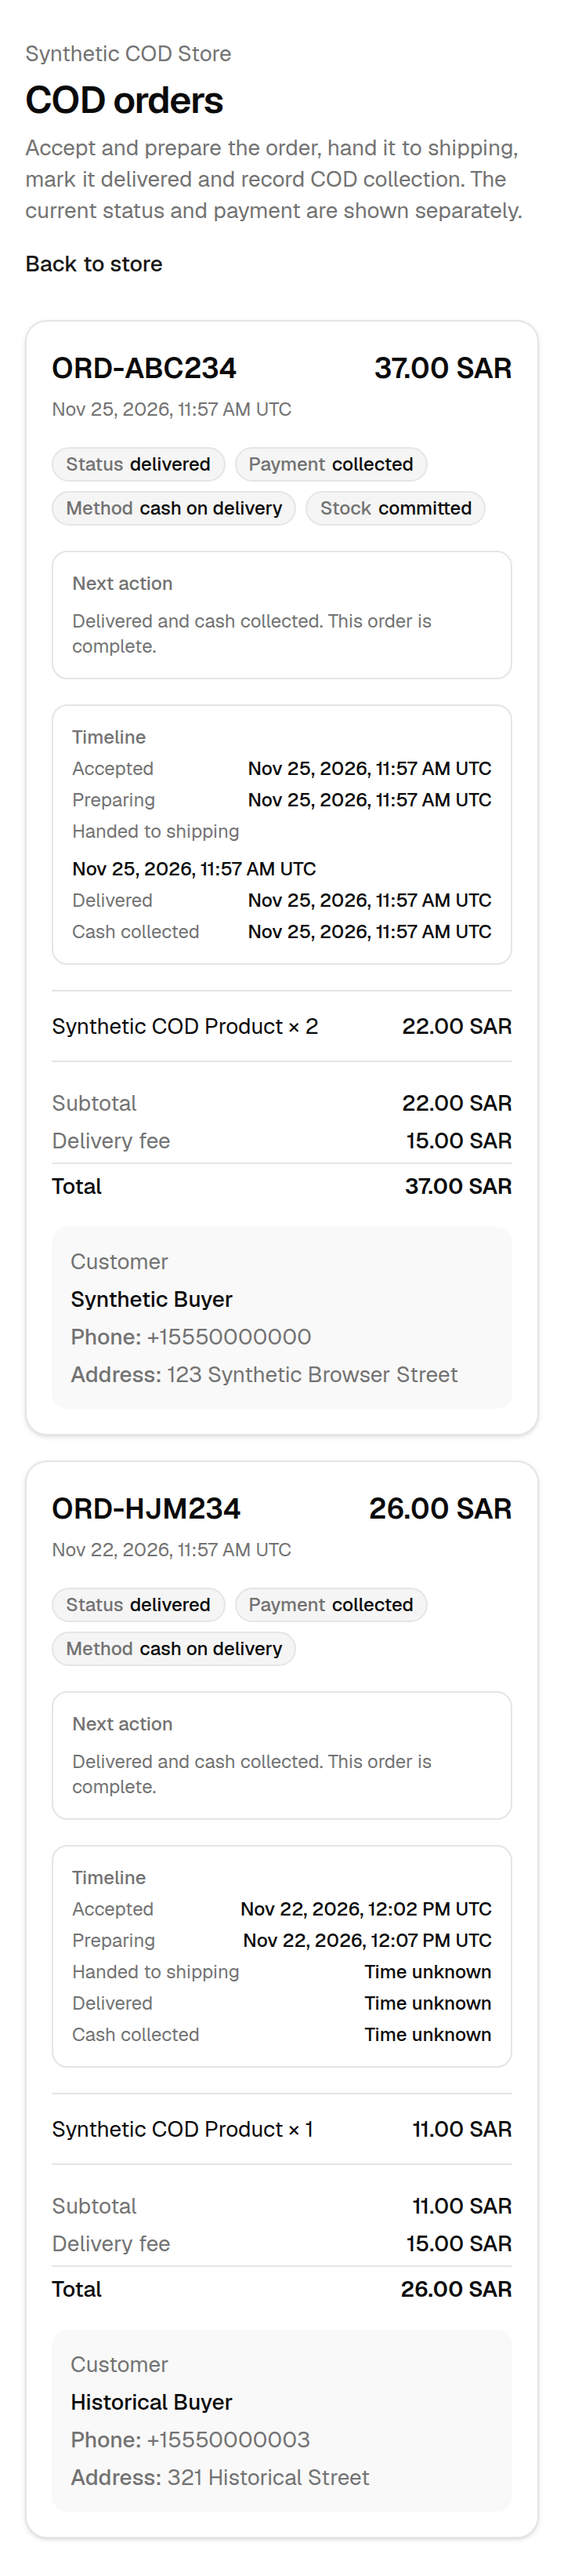
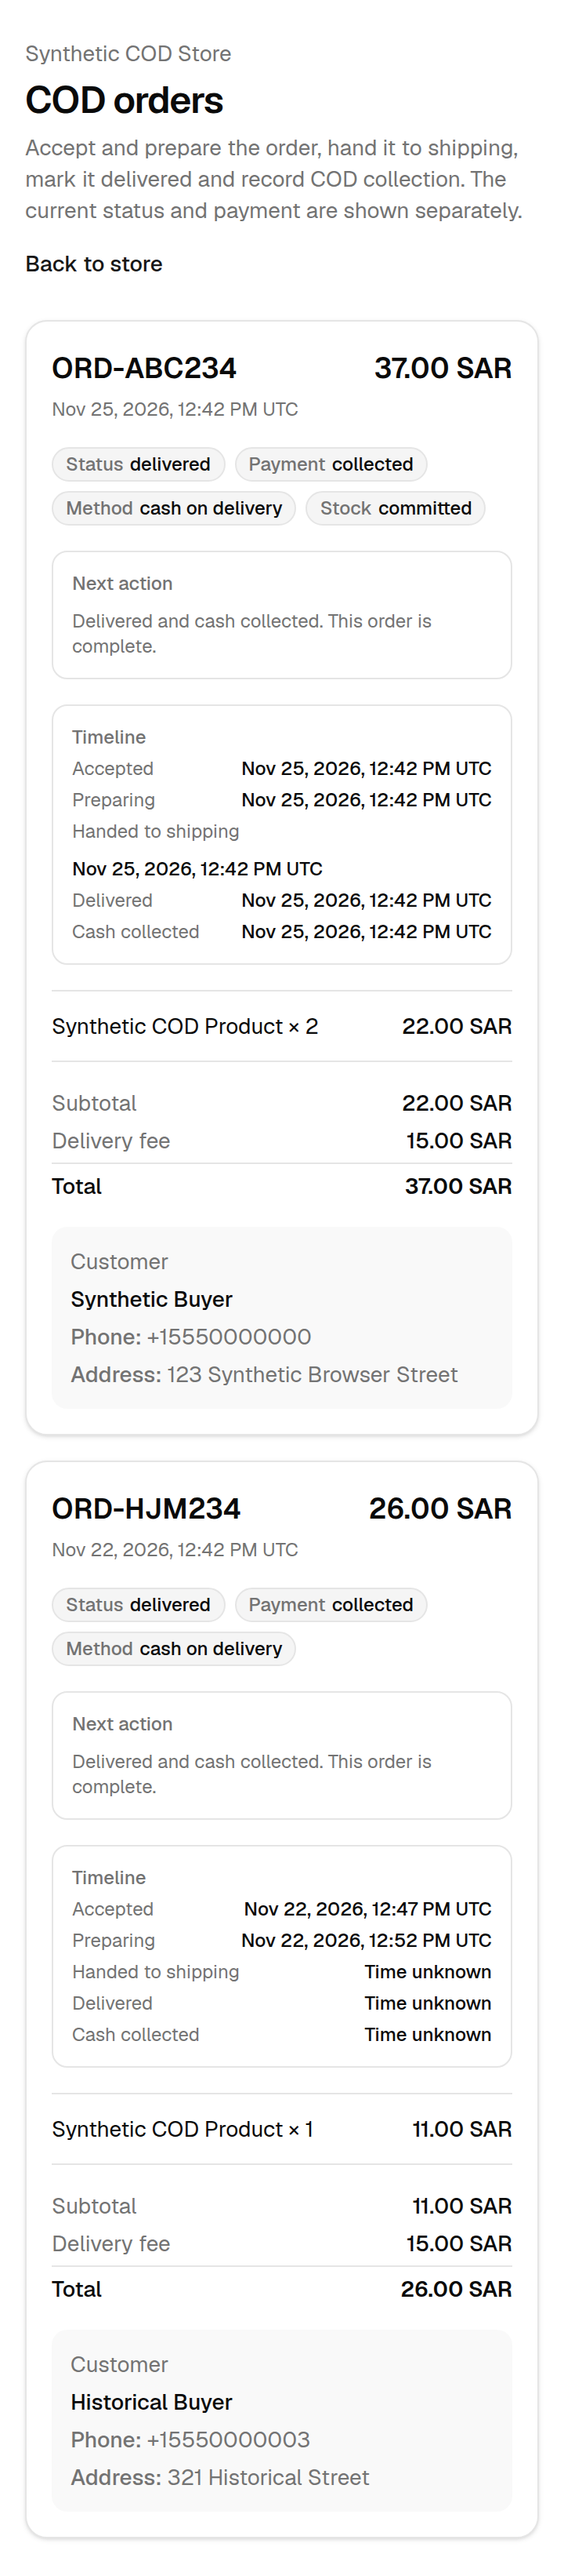
fix(commerce): allow legacy delivery without handoff time

diff --git a/tests/db/cod-shipping-migration.test.ts b/tests/db/cod-shipping-migration.test.ts
@@ -7,7 +7,16 @@ import { drizzle, type PostgresJsDatabase } from "drizzle-orm/postgres-js";
 import { migrate } from "drizzle-orm/postgres-js/migrator";
 
 import * as schema from "@/db/schema";
-import { hasTestCluster, testClusterUrl } from "./helpers";
+import type { TransactionDatabase } from "@/db/transaction-client";
+import {
+  collectMerchantOrderPayment,
+  markMerchantOrderDelivered,
+} from "@/lib/commerce/orders";
+import {
+  hasTestCluster,
+  readStoreScopeForFixture,
+  testClusterUrl,
+} from "./helpers";
 
 /**
  * Migration 0015 on a database that already has COD history.
@@ -311,6 +320,121 @@ describe.skipIf(!shouldRun)("0014 to 0015 COD shipping migration", () => {
         payment_collected_at: null,
       },
     ]);
+  });
+
+  it("delivers a historical handed order with an unknown handoff time through the production use case", async () => {
+    const storeId = "00000000-0000-4000-8000-000000000101";
+    const orderId = "00000000-0000-4000-8000-000000000111";
+    const scope = await readStoreScopeForFixture(db, storeId);
+    const tx = db as unknown as TransactionDatabase;
+
+    const inventoryBefore = await pool.unsafe<Record<string, unknown>>(`
+      select product_id, store_id, on_hand, reserved
+      from product_inventory order by product_id
+    `);
+    const reservationsBefore = await pool.unsafe<Record<string, unknown>>(`
+      select id, status, quantity, reserved_at, committed_at, released_at,
+             release_reason
+      from inventory_reservation where order_id = '00000000-0000-4000-8000-000000000111' order by id
+    `);
+    const itemsBefore = await pool.unsafe<Record<string, unknown>>(`
+      select id, product_name, unit_price, quantity, line_total, product_snapshot
+      from order_item where order_id = '00000000-0000-4000-8000-000000000111' order by id
+    `);
+    const [totalsBefore] = await pool.unsafe<{
+      subtotal: string;
+      delivery_fee: string;
+      total: string;
+    }>(`
+      select subtotal, delivery_fee, total from "order" where id = '00000000-0000-4000-8000-000000000111'
+    `);
+
+    const delivered = await markMerchantOrderDelivered(tx, scope, orderId);
+    expect(delivered).toMatchObject({
+      status: "delivered",
+      orderId,
+      orderStatus: "preparing",
+      fulfillmentStatus: "delivered",
+      paymentStatus: "awaiting_collection",
+    });
+
+    const [afterDelivery] = await pool.unsafe<{
+      handed_to_shipping_at: string | null;
+      delivered_at: string;
+      payment_status: string;
+      payment_collected_at: string | null;
+    }>(`
+      select handed_to_shipping_at, delivered_at, payment_status,
+             payment_collected_at
+      from "order" where id = '00000000-0000-4000-8000-000000000111'
+    `);
+
+    expect(afterDelivery.handed_to_shipping_at).toBeNull();
+    expect(afterDelivery.delivered_at).not.toBeNull();
+    expect(afterDelivery.payment_status).toBe("awaiting_collection");
+    expect(afterDelivery.payment_collected_at).toBeNull();
+
+    const deliveryRetry = await markMerchantOrderDelivered(tx, scope, orderId);
+    expect(deliveryRetry.status).toBe("already_applied");
+
+    const [afterRetry] = await pool.unsafe<{ delivered_at: string }>(`
+      select delivered_at from "order" where id = '00000000-0000-4000-8000-000000000111'
+    `);
+    expect(afterRetry.delivered_at).toEqual(afterDelivery.delivered_at);
+
+    const collected = await collectMerchantOrderPayment(tx, scope, orderId);
+    expect(collected).toMatchObject({
+      status: "collected",
+      fulfillmentStatus: "delivered",
+      paymentStatus: "collected",
+    });
+
+    const [afterCollection] = await pool.unsafe<{
+      handed_to_shipping_at: string | null;
+      delivered_at: string;
+      payment_status: string;
+      payment_collected_at: string;
+    }>(`
+      select handed_to_shipping_at, delivered_at, payment_status,
+             payment_collected_at
+      from "order" where id = '00000000-0000-4000-8000-000000000111'
+    `);
+
+    expect(afterCollection.handed_to_shipping_at).toBeNull();
+    expect(afterCollection.delivered_at).toEqual(afterDelivery.delivered_at);
+    expect(afterCollection.payment_status).toBe("collected");
+    expect(afterCollection.payment_collected_at).not.toBeNull();
+
+    const collectionRetry = await collectMerchantOrderPayment(tx, scope, orderId);
+    expect(collectionRetry.status).toBe("already_applied");
+
+    expect(
+      await pool.unsafe<Record<string, unknown>>(`
+        select product_id, store_id, on_hand, reserved
+        from product_inventory order by product_id
+      `),
+    ).toEqual(inventoryBefore);
+    expect(
+      await pool.unsafe<Record<string, unknown>>(`
+        select id, status, quantity, reserved_at, committed_at, released_at,
+               release_reason
+        from inventory_reservation where order_id = '00000000-0000-4000-8000-000000000111' order by id
+      `),
+    ).toEqual(reservationsBefore);
+    expect(
+      await pool.unsafe<Record<string, unknown>>(`
+        select id, product_name, unit_price, quantity, line_total, product_snapshot
+        from order_item where order_id = '00000000-0000-4000-8000-000000000111' order by id
+      `),
+    ).toEqual(itemsBefore);
+    const [totalsAfter] = await pool.unsafe<{
+      subtotal: string;
+      delivery_fee: string;
+      total: string;
+    }>(`
+      select subtotal, delivery_fee, total from "order" where id = '00000000-0000-4000-8000-000000000111'
+    `);
+    expect(totalsAfter).toEqual(totalsBefore);
   });
 
   it("allows a new action to record real timestamps and rejects inverted delivery times", async () => {

diff --git a/src/db/schema/commerce.ts b/src/db/schema/commerce.ts
@@ -336,11 +336,9 @@ export const order = pgTable(
         OR
         (${table.fulfillmentStatus} = 'delivered'
           AND (
-            (${table.handedToShippingAt} IS NULL
-              AND ${table.deliveredAt} IS NULL)
+            ${table.handedToShippingAt} IS NULL
             OR
-            (${table.handedToShippingAt} IS NOT NULL
-              AND ${table.deliveredAt} IS NOT NULL
+            (${table.deliveredAt} IS NOT NULL
               AND ${table.deliveredAt} >= ${table.handedToShippingAt})
           ))
         OR

diff --git a/tests/wizard/setup-neon-dev.test.ts b/tests/wizard/setup-neon-dev.test.ts
@@ -653,7 +653,7 @@ describe("committed migration files", () => {
[5 lines of base64/hex data omitted]
     ]);
   });
 

diff --git a/docs/review/cod-order-operations/README.md b/docs/review/cod-order-operations/README.md
@@ -24,6 +24,7 @@ Viewport: **360 CSS px** (`720 px` image width at 2× device pixel ratio).
 | `13-read-only-orders-en-360.png` | Suspended-store read-only Orders view in English: orders remain readable, with no accept, prepare, shipping, delivery, collection or cancel controls. |
 | `14-read-only-orders-ar-360.png` | The same read-only state in Arabic RTL at 360 px. |
 | `15-historical-unknown-360.png` | A historical delivered/collected order whose shipping, delivery and collection event times were never recorded shows `Time unknown` instead of inferred dates. |
+| `16-legacy-delivery-unknown-handoff-360.png` | A historical handed order with no recorded handoff time can still record delivery; the handoff stays `Time unknown`, the delivery time is exact, and payment remains a separate `awaiting collection` badge. |
 
 
 ## Before / after current status
@@ -55,6 +56,10 @@ The browser suite also reconciles the disposable database at each step:
 - A historical delivered/collected order with null event timestamps shows
   `Time unknown` for handoff, delivery and collection; no inferred date is
   presented as exact.
+- A historical handed order with a committed reservation and no handoff time
+  can still be marked delivered: the handoff remains `Time unknown`, the real
+  delivery time is recorded, payment stays `awaiting collection`, and stock and
+  the committed reservation are unchanged.
 - The read-only pass suspends the store and proves orders stay readable while
   every mutation control is absent.
 
